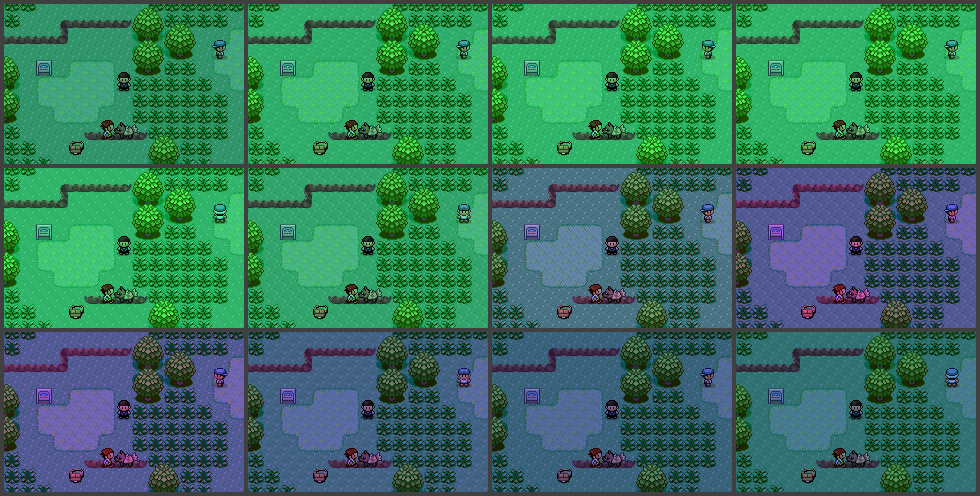
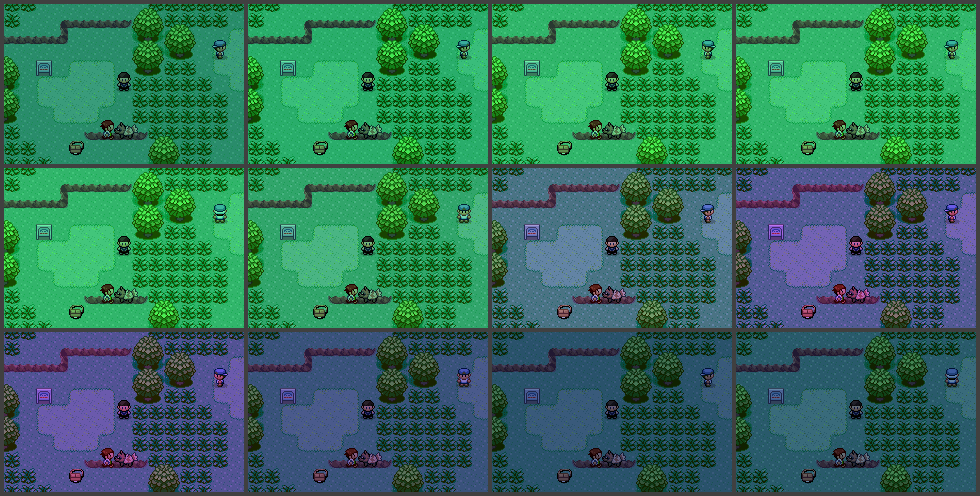
Bring the aurora's cold blue back down to night darkness
Cold night tint back to (0.40, 0.46, 0.66), so the darkest point of the loop
reads as night; the brighter green and violet stay. Shot of one full loop in
design/art/aurora_map_pulse.png.

Claude-Session: https://claude.ai/code/session_01KEfQ3687BBFMv8bczkVuAH

diff --git a/src/eien_aurora.c b/src/eien_aurora.c
@@ -35,7 +35,7 @@ struct AuroraTint
 // TODO(design): the night palette (an art pass on a real map).
 static const struct AuroraTint sAuroraTints[] =
 {
-    {{.coeff = 10, .blendColor = TINT(0.50, 0.56, 0.80), .isTint = TRUE}, 0},  // Cold night
+    {{.coeff = 10, .blendColor = TINT(0.40, 0.46, 0.66), .isTint = TRUE}, 0},  // Cold night
     {{.coeff = 10, .blendColor = TINT(0.44, 0.96, 0.66), .isTint = TRUE}, 96}, // Green
     {{.coeff = 10, .blendColor = TINT(0.80, 0.48, 0.98), .isTint = TRUE}, 0},  // Violet
 };
